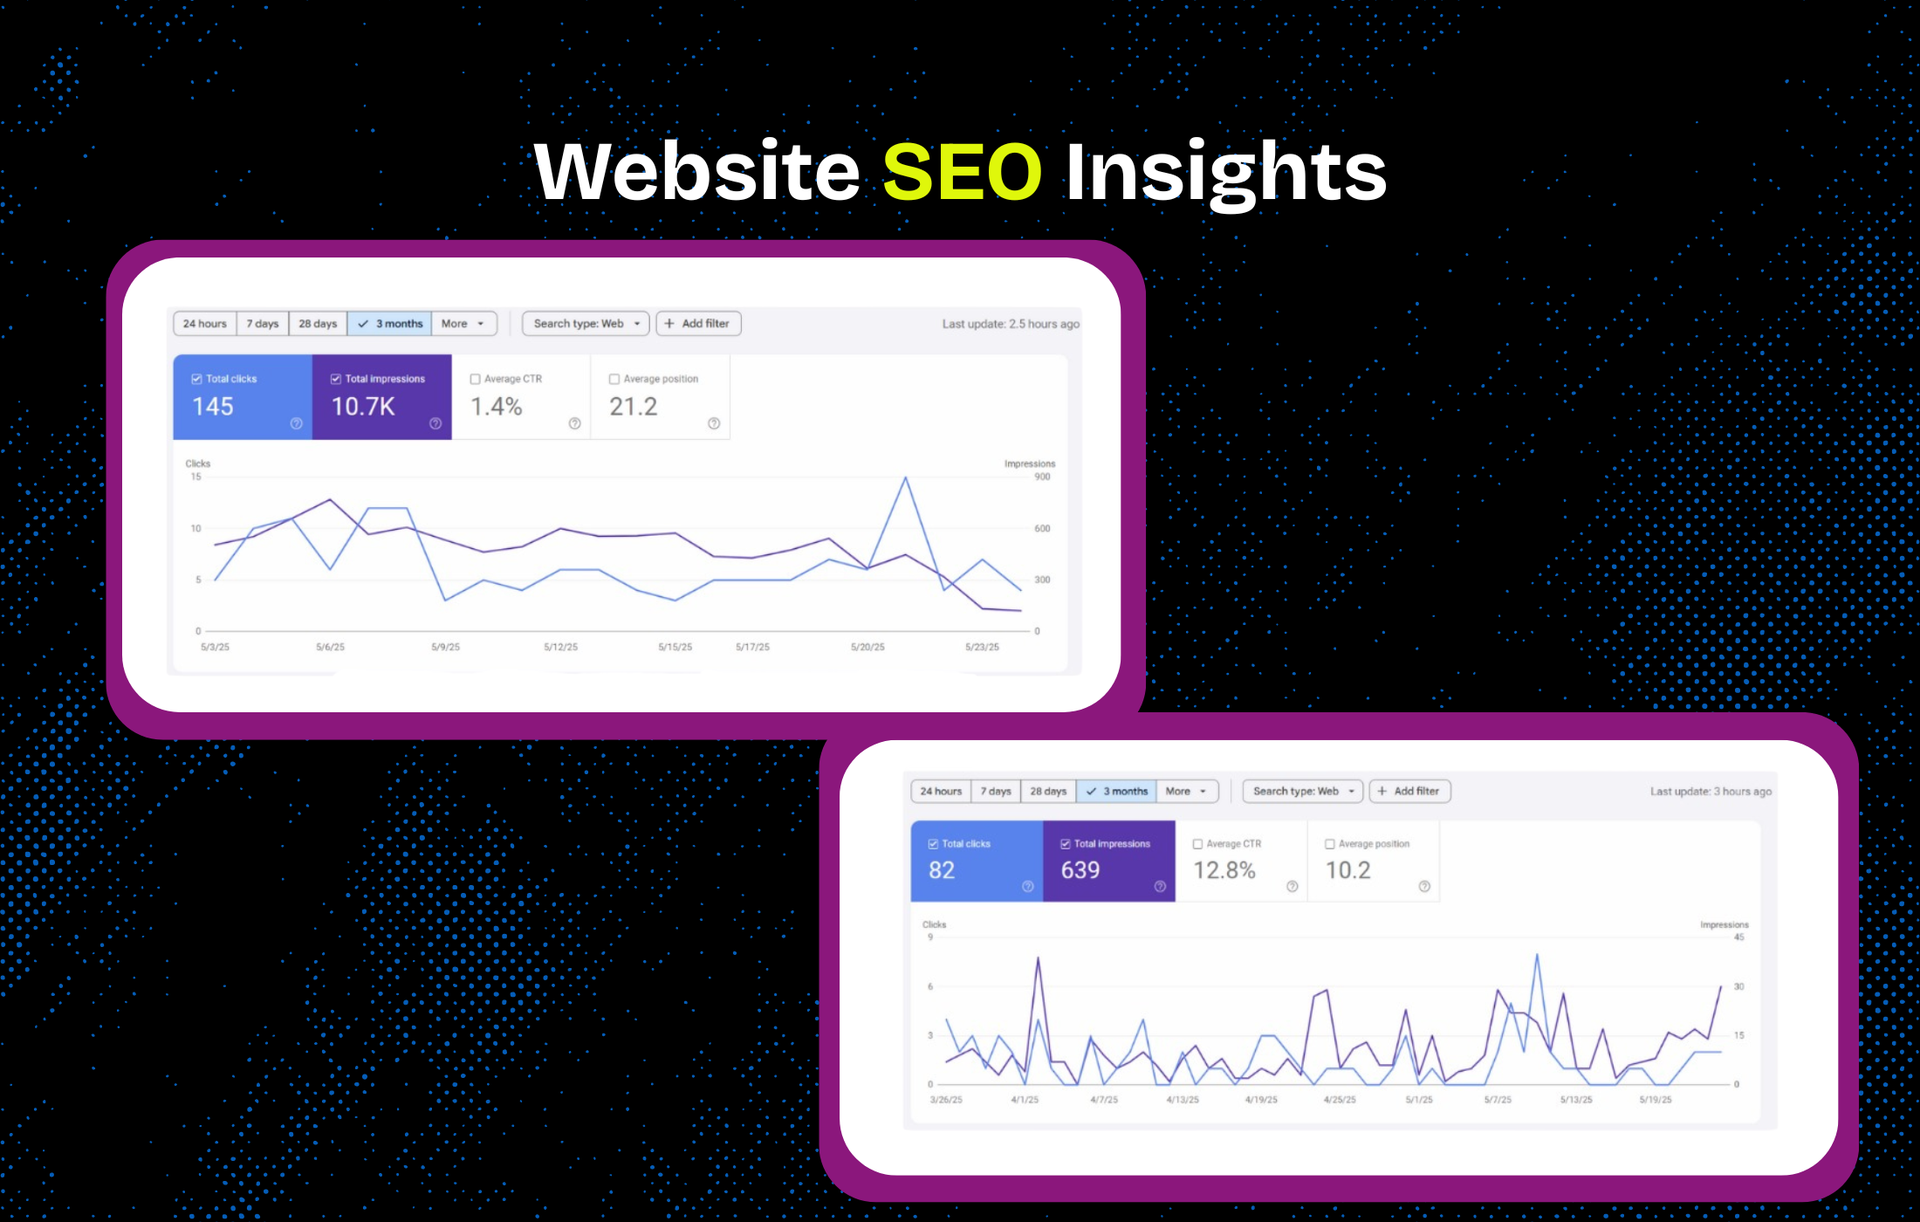
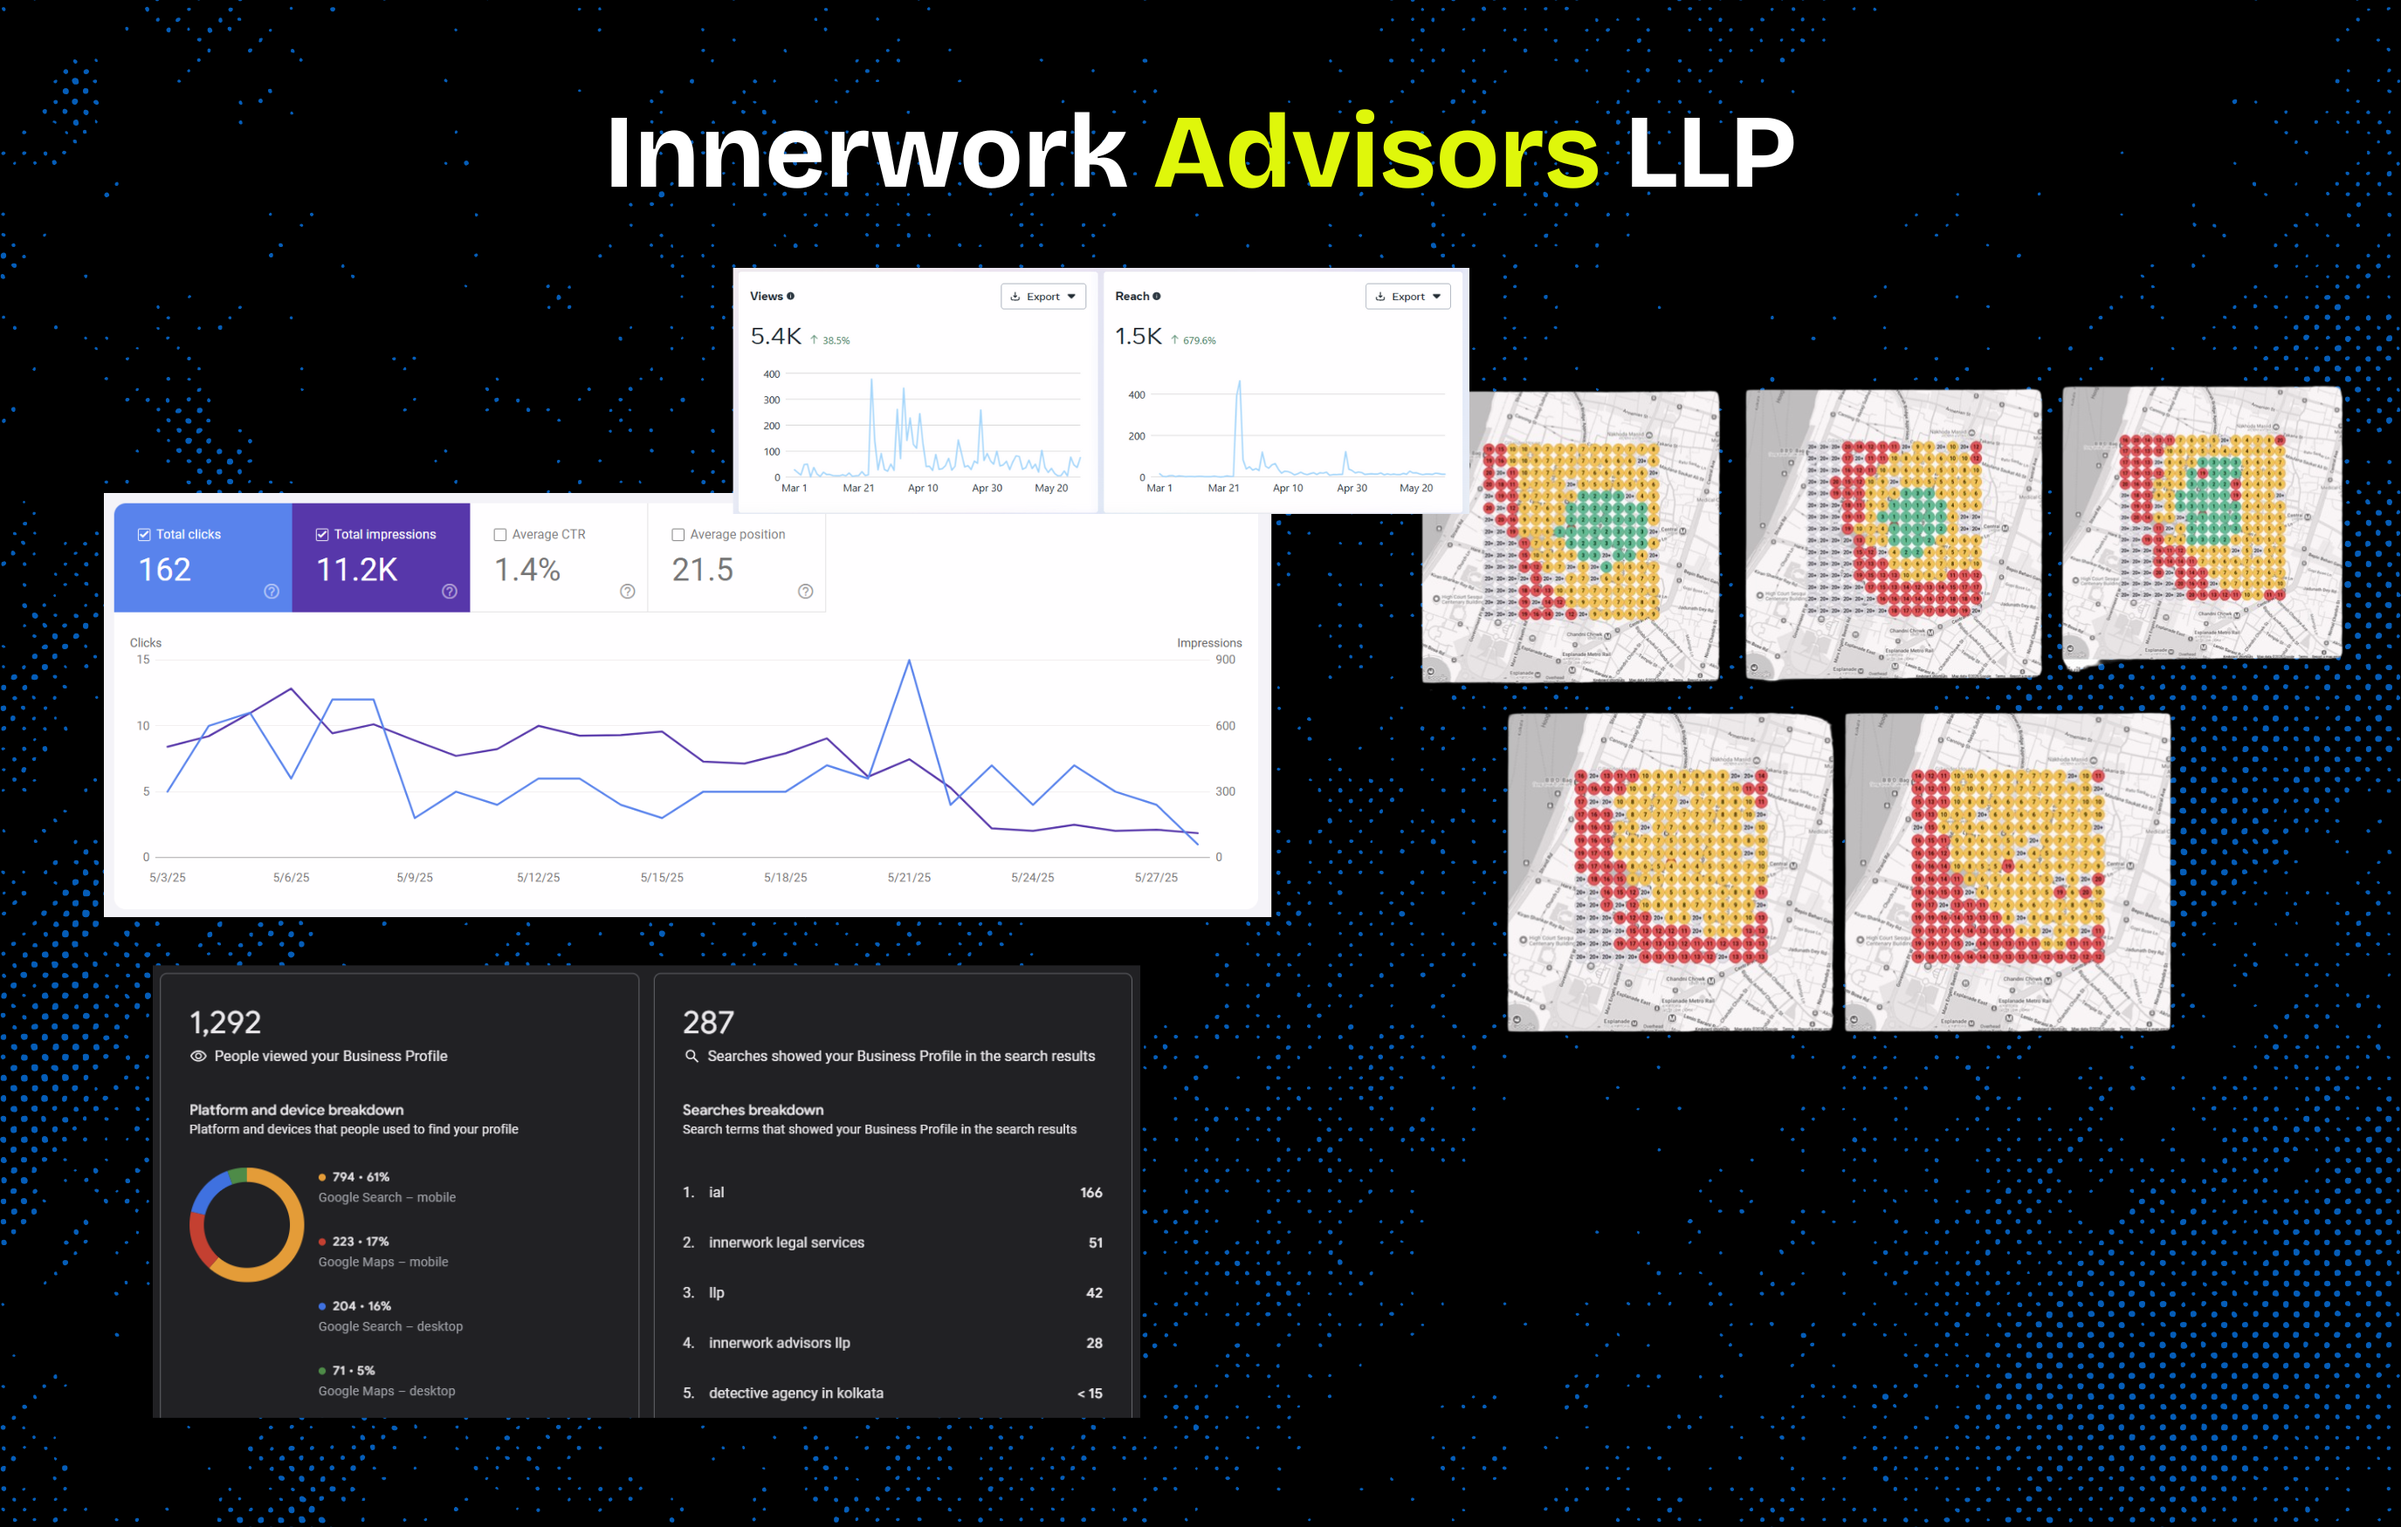
Done

diff --git a/src/components/product/Marketing/MarketingComponent.jsx b/src/components/product/Marketing/MarketingComponent.jsx
@@ -8,9 +8,9 @@ const MarketingComponent = () => {
   const [activeInfo, setActiveInfo] = useState({
     title: "Instagram Marketing",
     description:
-      "doloribus neque excepturi perferendis aspernatur, commodi inventore",
+      "These are some marketing insights of this company which has had a digital business for over 5 years but started SEO for only 2 months and this is the result already.",
     longDescription: "This is long description",
-    logo: "https://yateam.vercel.app/static/media/im.f09b99d7e1997ffc9e61.png",
+    logo: "/clientLogo/iwallp.png",
     img: "/workImage/Marketing1.png",
   });
 
@@ -36,24 +36,32 @@ const MarketingComponent = () => {
       data-aos-delay="100"
       data-aos-duration="600"
     >
-      <div className="h-[60vh] md:h-[80vh] w-full rounded-md relative ">
+      <div className="relative h-[60vh] w-full rounded-md md:h-[80vh]">
         <img
           src={activeInfo.img}
           alt="bg"
-          className={`h-full w-full rounded-md  transition-all duration-300 ${imgAnim ? styles.zoomAnimation : ""} brightness-[0.5]`}
+          className={`h-full w-full rounded-md transition-all duration-300 ${imgAnim ? styles.zoomAnimation : ""} brightness-[0.5]`}
         />
-        <div className="absolute top-0 left-0 flex flex-col items-start justify-top h-full w-full rounded-md p-10">
-          <h1 className={`text-white text-[2rem] transition-opacity duration-300 ${textAnim ? styles.fadeAnimation : ""}`}>{activeInfo.title}</h1>
-          <p className={`text-white transition-opacity duration-300 ${textAnim ? styles.fadeAnimation : ""}`}>{activeInfo.description}</p>
+        <div className="justify-top absolute left-0 top-0 flex h-full w-full flex-col items-start rounded-md p-10">
+          <h1
+            className={`text-[2rem] text-white transition-opacity duration-300 ${textAnim ? styles.fadeAnimation : ""}`}
+          >
+            {activeInfo.title}
+          </h1>
+          <p
+            className={`text-white transition-opacity duration-300 ${textAnim ? styles.fadeAnimation : ""}`}
+          >
+            {activeInfo.description}
+          </p>
           {/* <p className={`text-white transition-opacity duration-300 ${textAnim ? styles.fadeAnimation : ""}`}>{activeInfo.longDescription}</p> */}
         </div>
       </div>
 
-      <div className="absolute bottom-0 left-0 right-0 flex items-center justify-end gap-2 md:gap-5 p-4">
+      <div className="absolute bottom-0 left-0 right-0 flex items-center justify-end gap-2 p-4 md:gap-5">
         {works.marketing.map((panel, index) => (
           <div
             key={index}
-            className={`bg-black/50  ${styles.card} ${activeIndex === index ? "border-2 border-white border-solid" : ""}`}
+            className={`bg-black/50 ${styles.card} ${activeIndex === index ? "border-2 border-solid border-white" : ""}`}
             style={{ backgroundImage: `url(${logo})` }}
             onClick={() => handleCardClick(index, panel)}
           >
